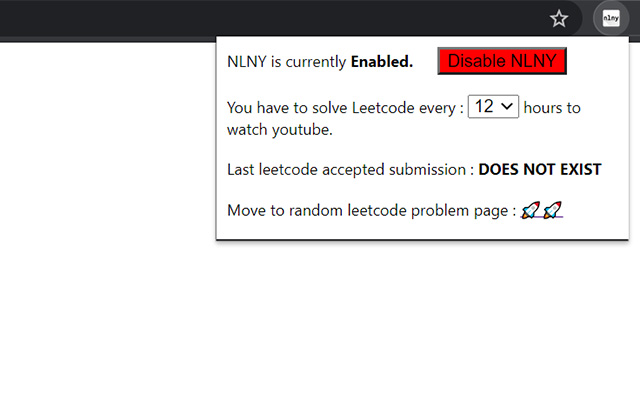
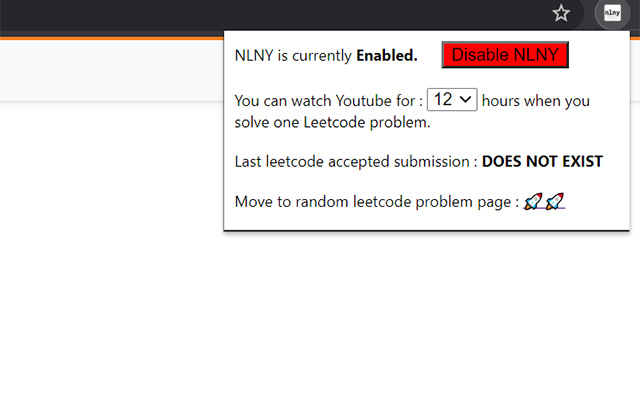
Update description, popup text

Changed region(s): [[0.0, 0.0, 1.0, 0.45], [0.3125, 0.48, 1.0, 0.63], [0.9688, 0.24, 1.0, 0.27]]

diff --git a/popup.html b/popup.html
@@ -14,7 +14,7 @@
             <button class="btn enable" id="enable-nlny">Enable NLNY</button>
         </div>
         <div class="line">          
-            You have to solve Leetcode every :
+            You can watch Youtube for :
             <select id="hour-unit">
                 <option value="1">1</option>
                 <option value="2">2</option>
@@ -31,7 +31,7 @@
                 <option value="18">18</option>
                 <option value="24">24</option>
             </select>
-            hours to watch youtube.
+            hours when you solve one Leetcode problem.
         </div>
 
         <div class="line">
